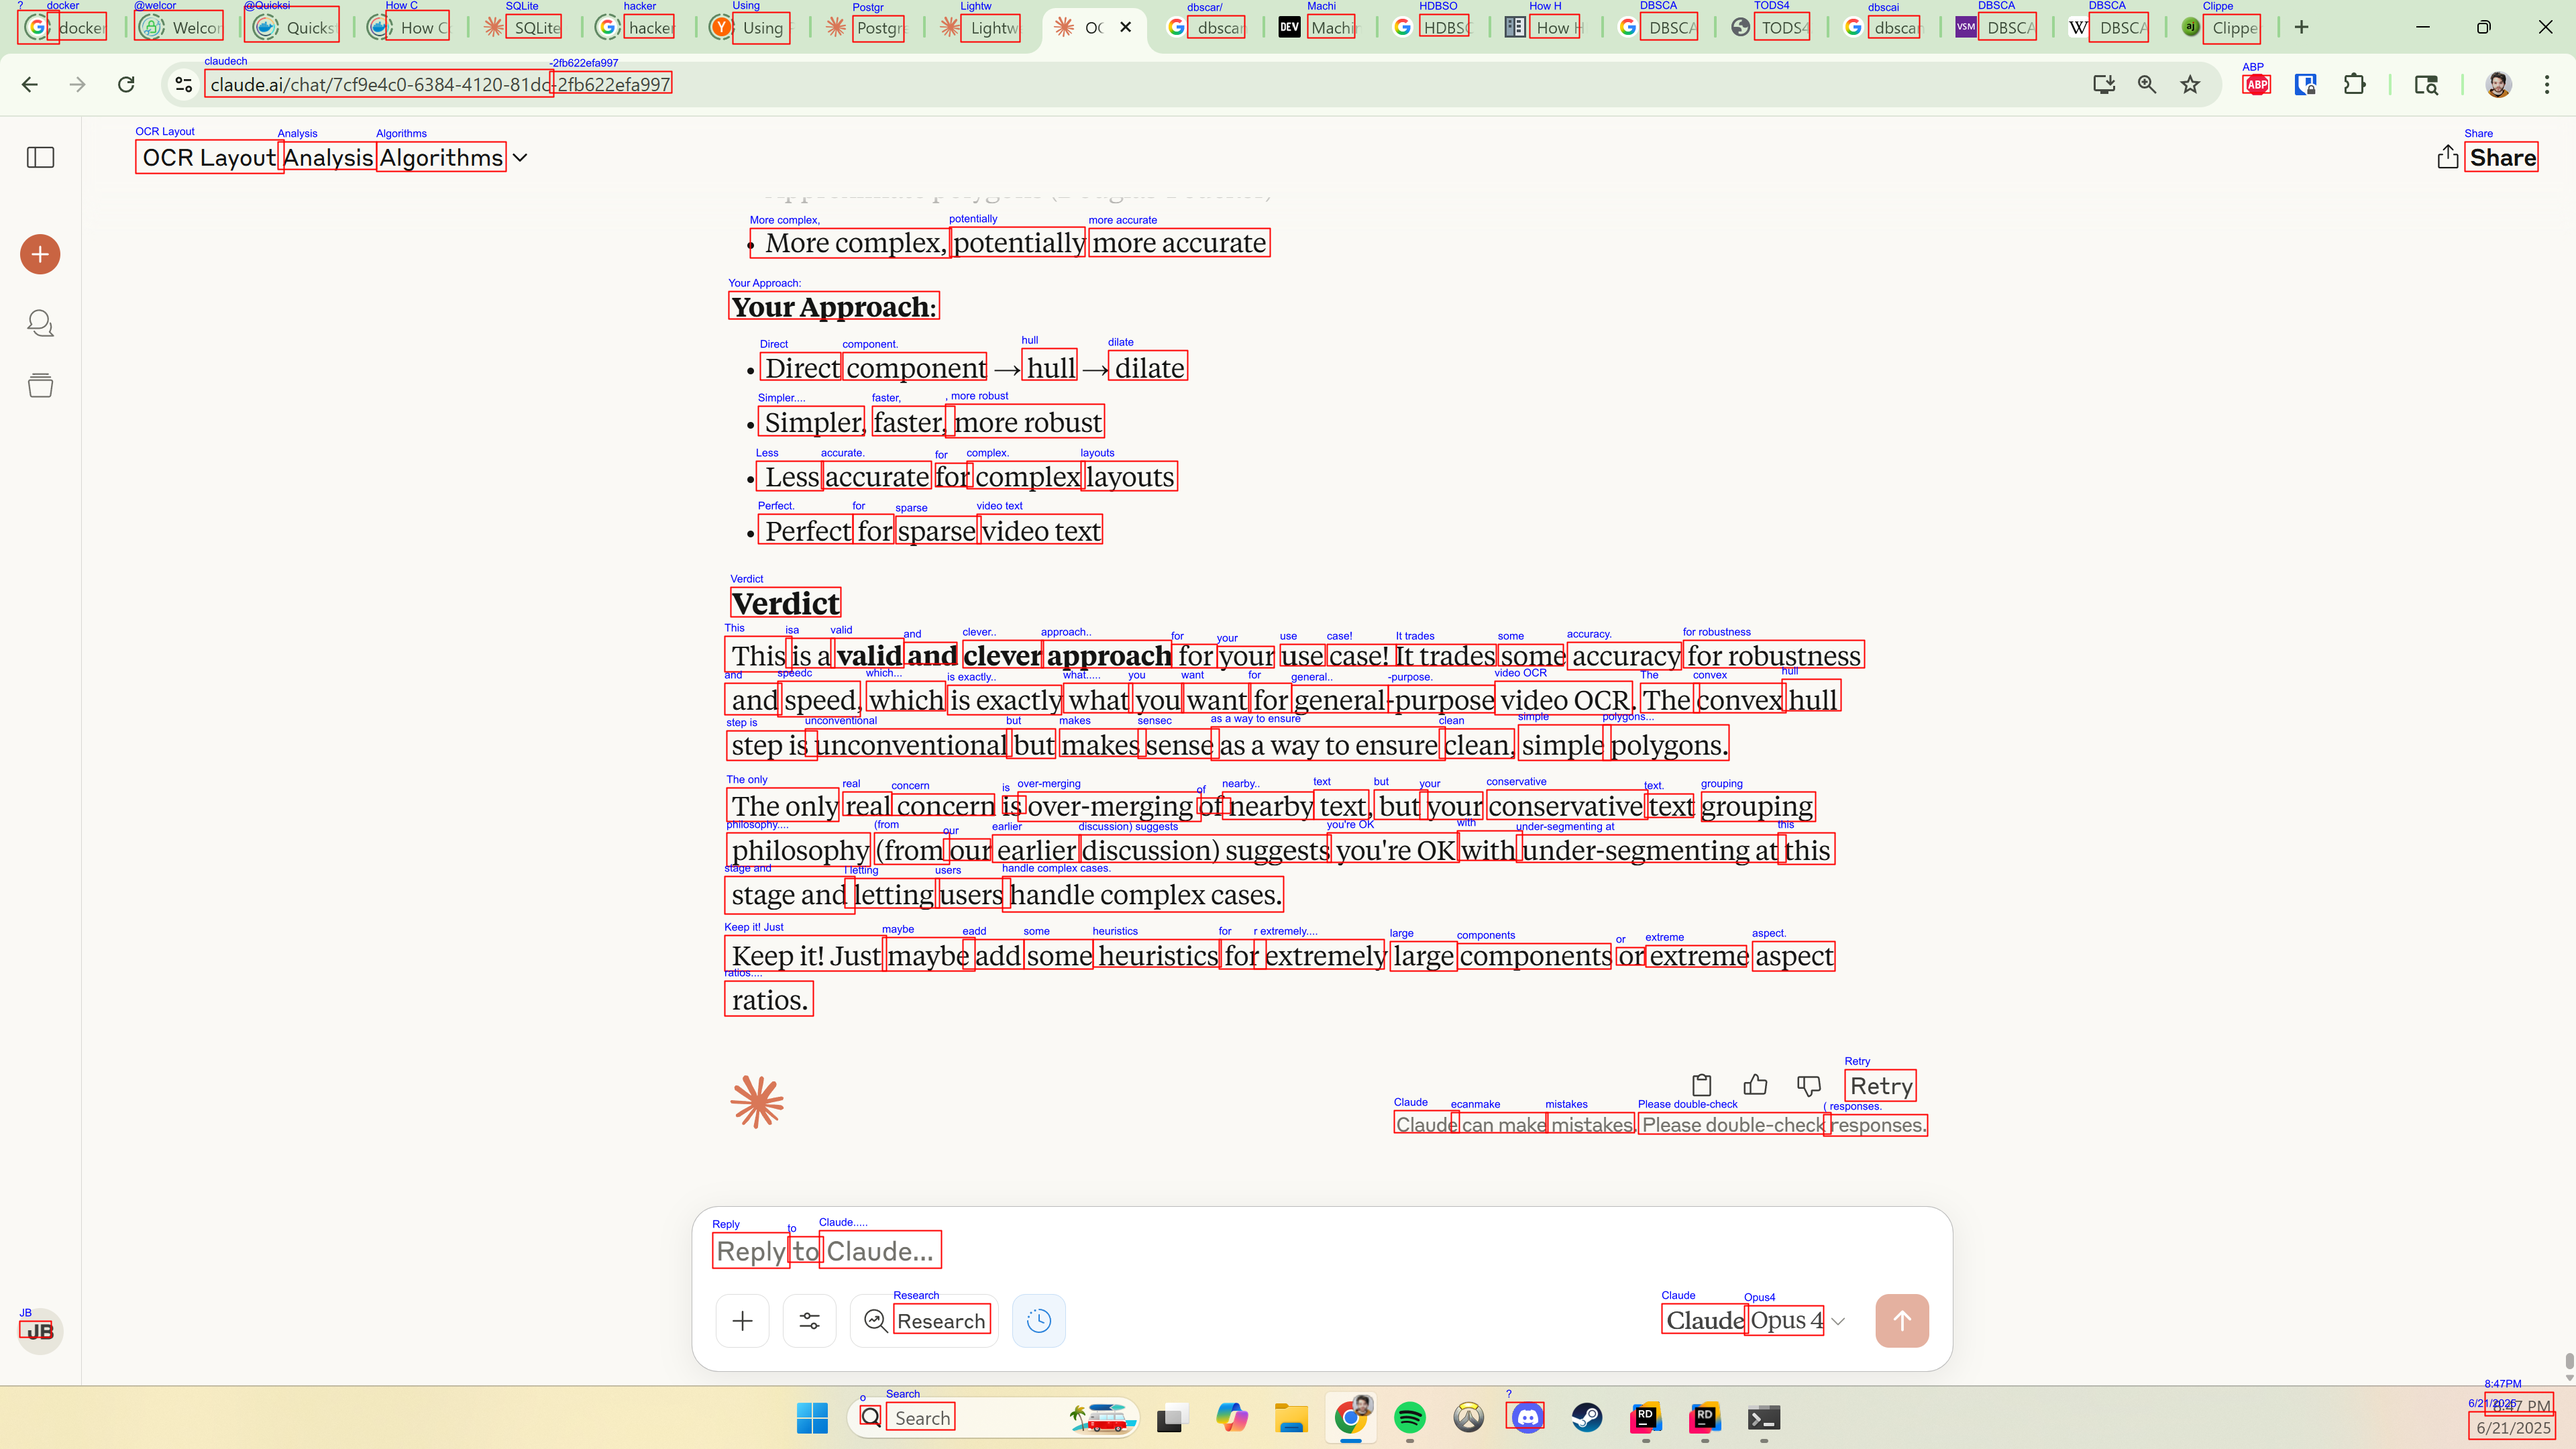
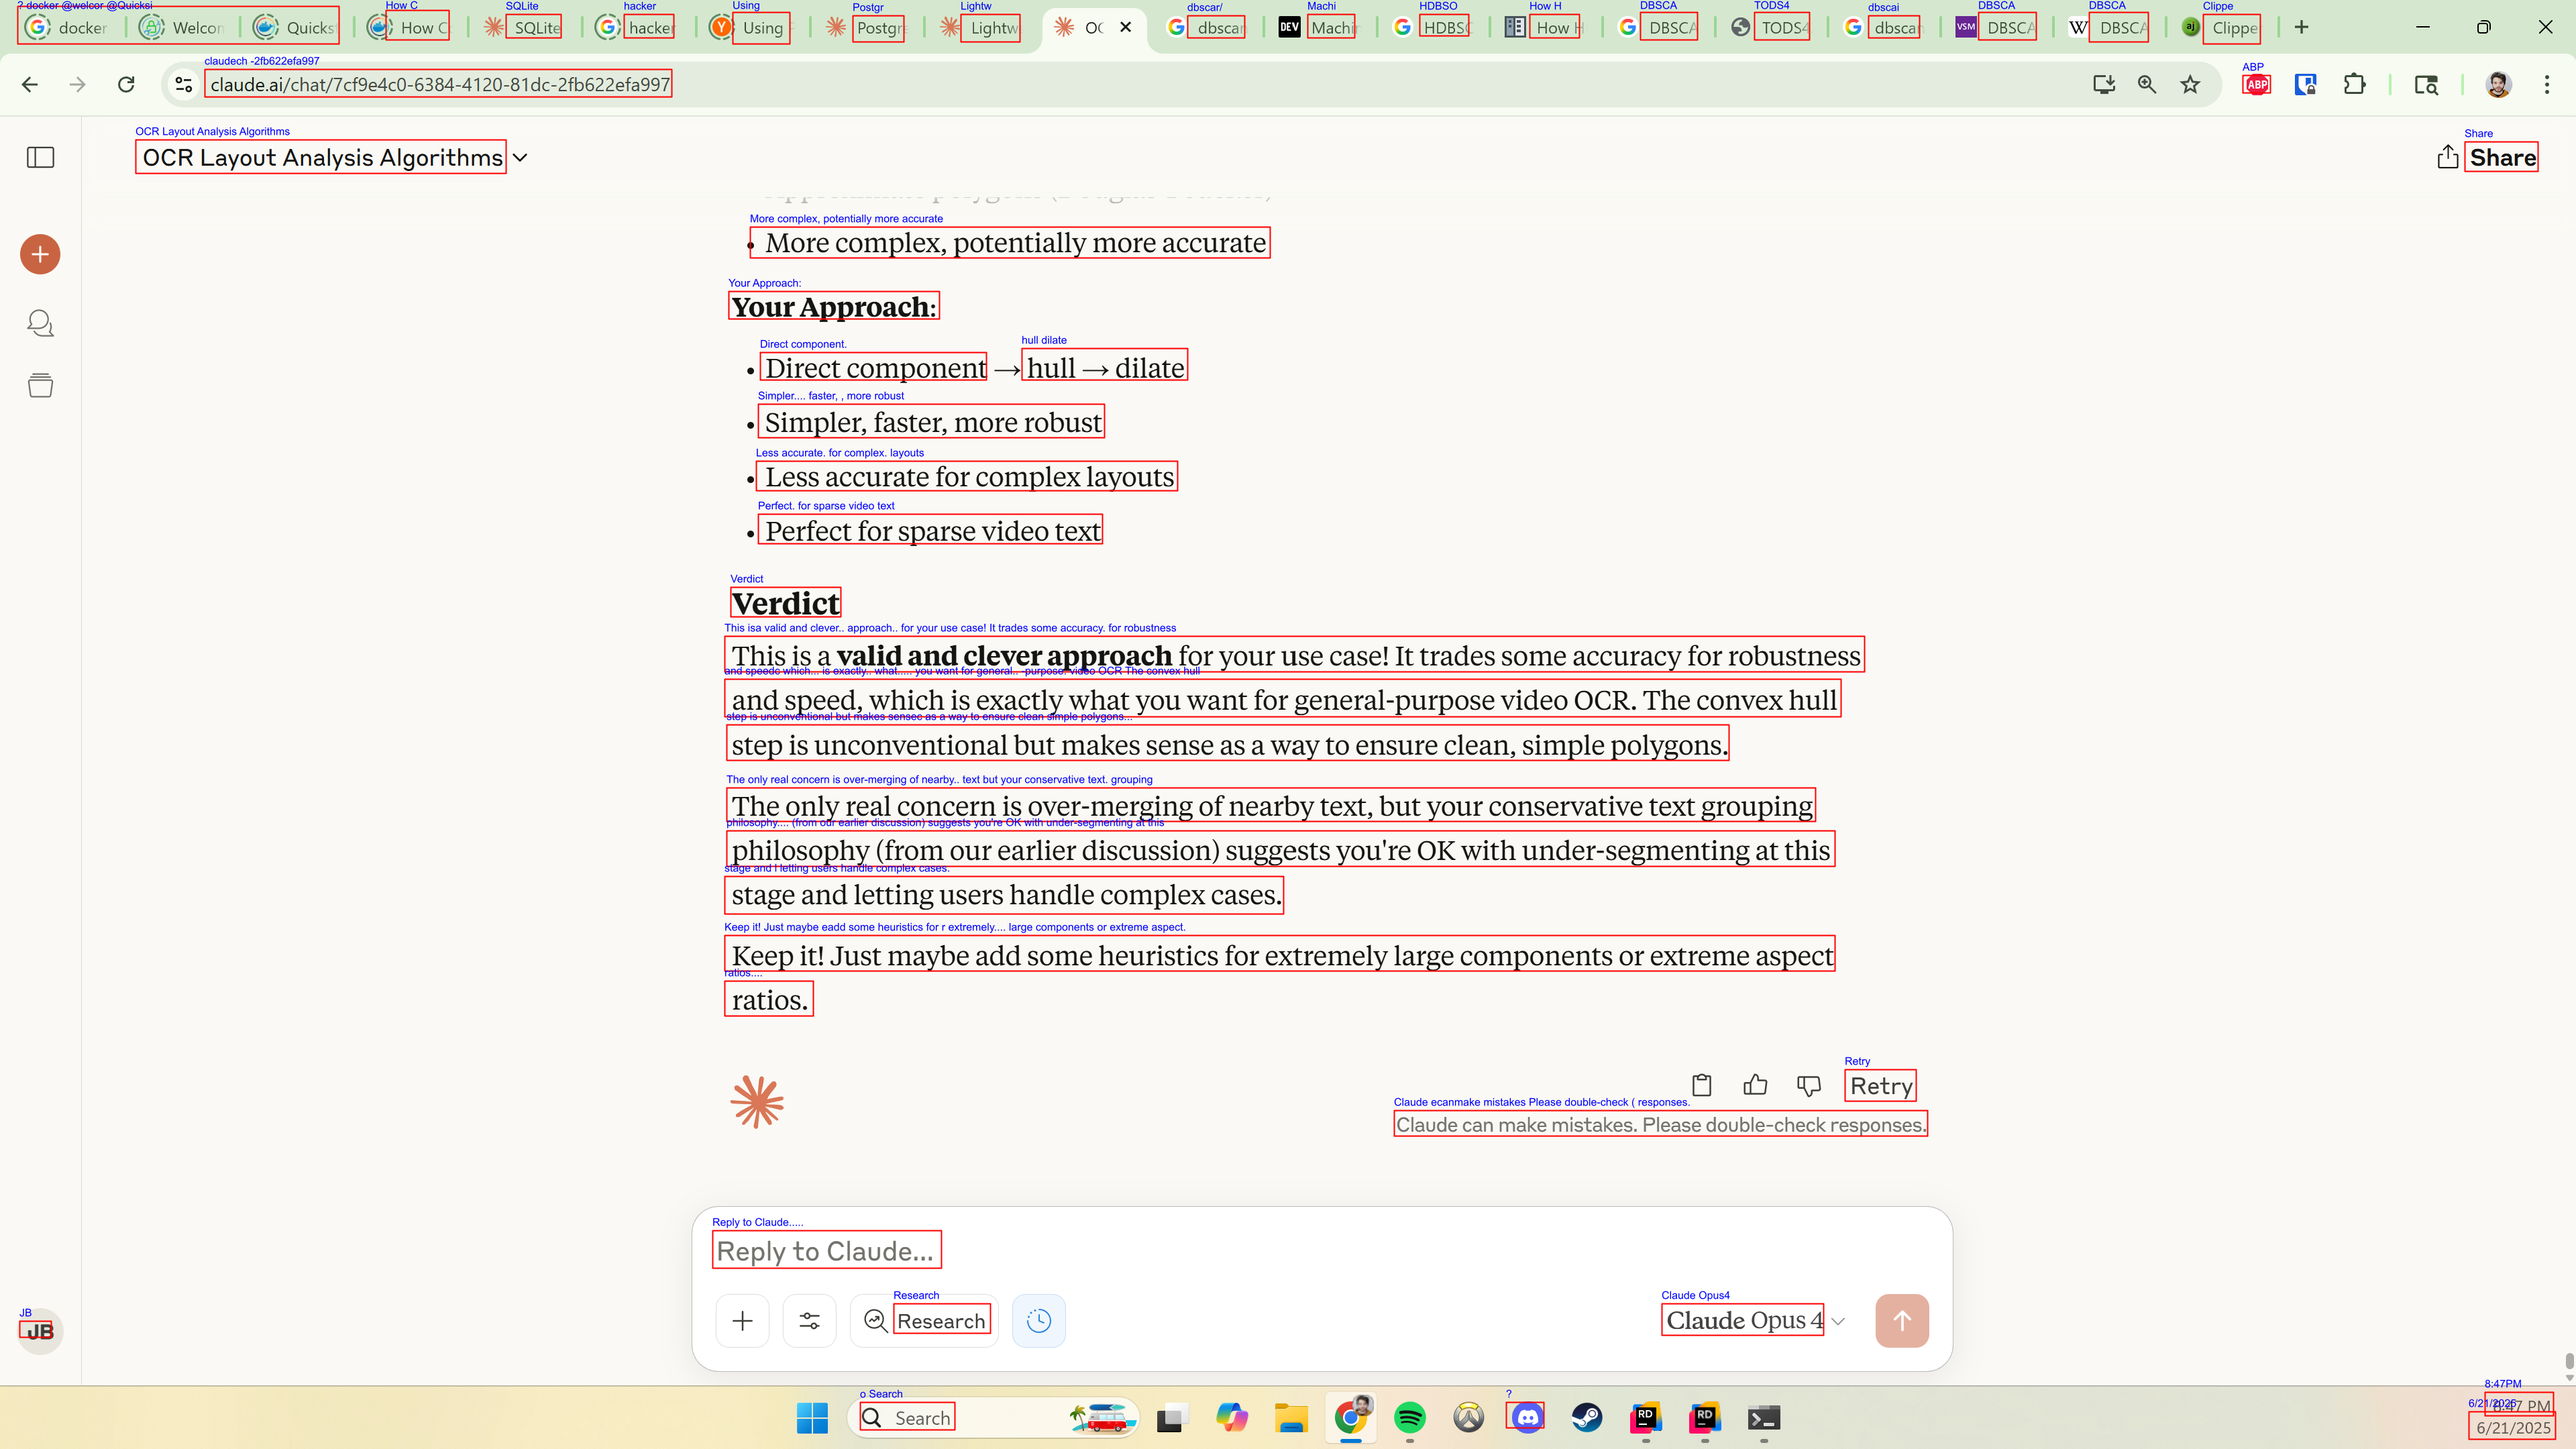
After processing, consolidate words into lines

diff --git a/Src/Ocr/Blocks/OcrPostProcessingBlock.cs b/Src/Ocr/Blocks/OcrPostProcessingBlock.cs
@@ -11,8 +11,10 @@ public static class OcrPostProcessingBlock
         return new TransformBlock<(Image<Rgb24> Image, List<Rectangle> Rectangles, List<string> Texts), (Image<Rgb24>, List<Rectangle>, List<string>)>(data =>
         {
             var (filteredRectangles, filteredTexts) = RemoveEmptyText(data.Rectangles, data.Texts);
-            
-            return (data.Image, filteredRectangles, filteredTexts);
+            var (mergedRectangles, mergedTexts) = MergeLines(filteredRectangles, filteredTexts);
+
+            // return (data.Image, filteredRectangles, filteredTexts);
+            return (data.Image, mergedRectangles, mergedTexts);
         });
     }
 
@@ -23,14 +25,146 @@ public static class OcrPostProcessingBlock
 
         for (int i = 0; i < texts.Count; i++)
         {
-            var trimmedText = texts[i].Trim();
-            if (trimmedText != string.Empty)
+            var cleanedText = new string(texts[i].Where(c => c <= 127).ToArray()).Trim();
+            if (cleanedText != string.Empty)
             {
                 filteredRectangles.Add(rectangles[i]);
-                filteredTexts.Add(trimmedText);
+                filteredTexts.Add(cleanedText);
             }
         }
 
         return (filteredRectangles, filteredTexts);
+    }
+
+    private static (List<Rectangle>, List<string>) MergeLines(List<Rectangle> rectangles, List<string> texts)
+    {
+        if (rectangles.Count == 0)
+            return (rectangles, texts);
+
+        // Build adjacency list for connected components
+        var adjacency = new List<List<int>>();
+        for (int i = 0; i < rectangles.Count; i++)
+        {
+            adjacency.Add(new List<int>());
+        }
+
+        // Check all pairs to build edges (O(n^2))
+        for (int i = 0; i < rectangles.Count; i++)
+        {
+            for (int j = i + 1; j < rectangles.Count; j++)
+            {
+                if (CanMerge(rectangles[i], rectangles[j]))
+                {
+                    adjacency[i].Add(j);
+                    adjacency[j].Add(i);
+                }
+            }
+        }
+
+        // Find connected components using DFS
+        var visited = new bool[rectangles.Count];
+        var components = new List<List<int>>();
+
+        for (int i = 0; i < rectangles.Count; i++)
+        {
+            if (!visited[i])
+            {
+                var component = new List<int>();
+                DFS(i, adjacency, visited, component);
+                components.Add(component);
+            }
+        }
+
+        // Merge each component into a single rectangle and text
+        var mergedRectangles = new List<Rectangle>();
+        var mergedTexts = new List<string>();
+
+        foreach (var component in components)
+        {
+            // Sort component by X position for proper text ordering
+            component.Sort((a, b) => rectangles[a].X.CompareTo(rectangles[b].X));
+
+            var componentRects = component.Select(i => rectangles[i]).ToList();
+            var componentTexts = component.Select(i => texts[i]).ToList();
+
+            mergedRectangles.Add(MergeRectangles(componentRects));
+            mergedTexts.Add(string.Join(" ", componentTexts));
+        }
+
+        return (mergedRectangles, mergedTexts);
+    }
+
+    private static bool CanMerge(Rectangle rect1, Rectangle rect2)
+    {
+        // Check if rectangles are on same line (within 2x height)
+        var midY1 = rect1.Y + rect1.Height / 2;
+        var midY2 = rect2.Y + rect2.Height / 2;
+        var maxHeight = Math.Max(rect1.Height, rect2.Height);
+        
+        if (Math.Abs(midY1 - midY2) > 2 * maxHeight)
+            return false;
+
+        // Check proximity in both directions
+        return ShouldMerge(rect1, rect2) || ShouldMerge(rect2, rect1);
+    }
+
+    private static void DFS(int node, List<List<int>> adjacency, bool[] visited, List<int> component)
+    {
+        visited[node] = true;
+        component.Add(node);
+
+        foreach (var neighbor in adjacency[node])
+        {
+            if (!visited[neighbor])
+            {
+                DFS(neighbor, adjacency, visited, component);
+            }
+        }
+    }
+
+    private static bool ShouldMerge(Rectangle currentRect, Rectangle candidateRect)
+    {
+        var height = currentRect.Height;
+        
+        var currentTopRight = new Point(currentRect.Right, currentRect.Top);
+        var currentBottomRight = new Point(currentRect.Right, currentRect.Bottom);
+        var candidateTopLeft = new Point(candidateRect.Left, candidateRect.Top);
+        var candidateBottomLeft = new Point(candidateRect.Left, candidateRect.Bottom);
+        
+        var topDistance = AnisotropicDistance(currentTopRight, candidateTopLeft, height);
+        var bottomDistance = AnisotropicDistance(currentBottomRight, candidateBottomLeft, height);
+        
+        return topDistance <= 1.0 && bottomDistance <= 1.0;
+    }
+    
+    private static double AnisotropicDistance(Point p1, Point p2, int referenceHeight)
+    {
+        var dx = Math.Abs(p1.X - p2.X);
+        var dy = Math.Abs(p1.Y - p2.Y);
+        
+        // Normalize by reference height
+        var normalizedDx = dx / (double)referenceHeight;
+        var normalizedDy = dy / (double)referenceHeight;
+        
+        // Weight vertical distance more heavily than horizontal
+        // This allows more horizontal gap (up to ~1.5x height) while keeping vertical tolerance tight
+        var horizontalWeight = 0.67;  // More lenient
+        var verticalWeight = 2.0;     // More strict
+        
+        return Math.Sqrt(horizontalWeight * normalizedDx * normalizedDx + 
+                        verticalWeight * normalizedDy * normalizedDy);
+    }
+
+    private static Rectangle MergeRectangles(List<Rectangle> rectangles)
+    {
+        if (rectangles.Count == 0)
+            return Rectangle.Empty;
+
+        var minX = rectangles.Min(r => r.Left);
+        var minY = rectangles.Min(r => r.Top);
+        var maxX = rectangles.Max(r => r.Right);
+        var maxY = rectangles.Max(r => r.Bottom);
+
+        return Rectangle.FromLTRB(minX, minY, maxX, maxY);
     }
 }
